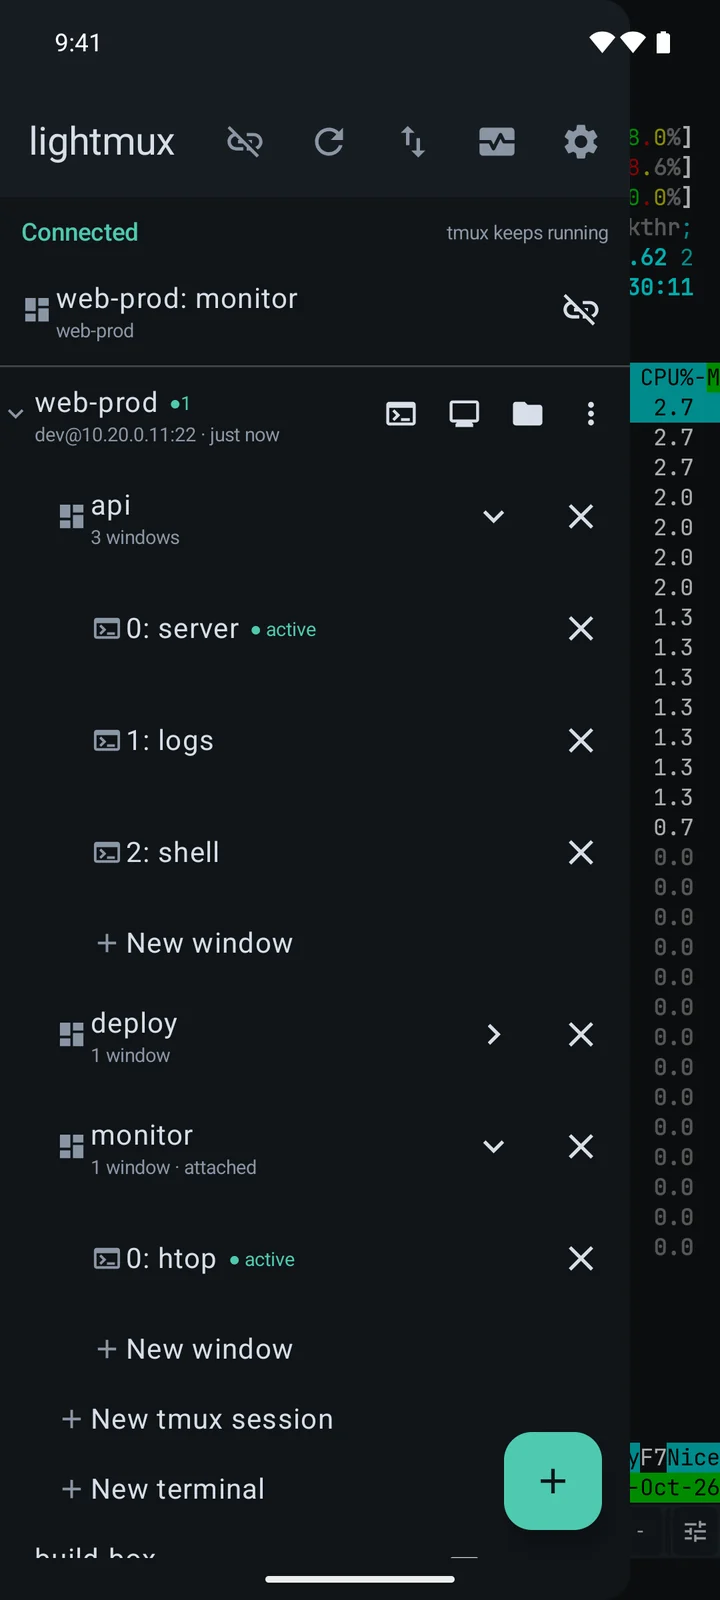
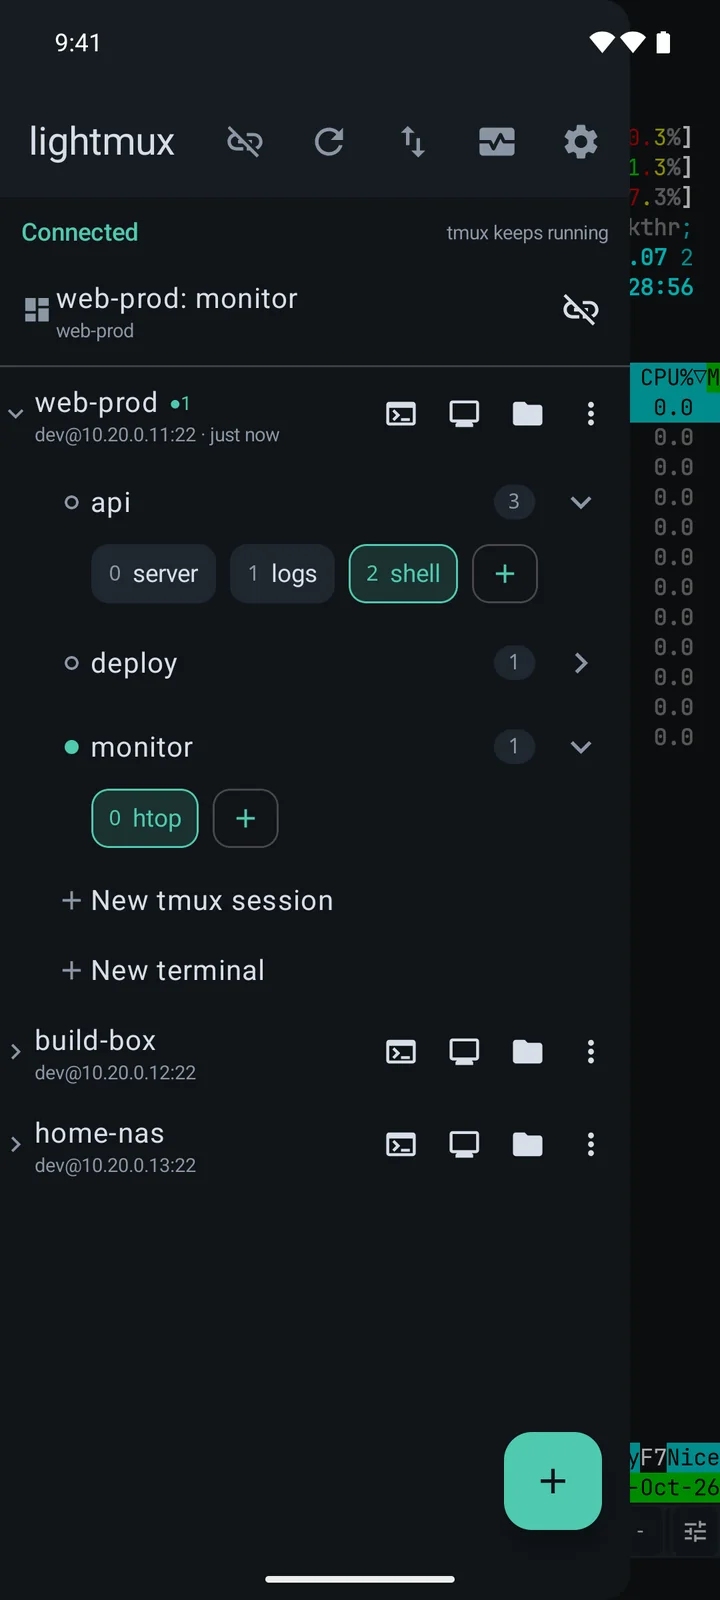
docs: 主页/抽屉截图改为只展开一台主机并重拍新样式，落地页功能截图完整显示

diff --git a/site/index.html b/site/index.html
@@ -188,13 +188,10 @@ nav{position:sticky;top:0;z-index:50;height:66px;background:var(--nav-bg);
 .cell h3{font-size:17px;font-weight:700;color:var(--ink-deep)}
 .cell p{font-size:14px;line-height:1.7;color:var(--text-2)}
 .cell p code{background:var(--bg-alt);padding:1px 6px;border-radius:5px;font-size:12.5px;color:var(--ink-deep)}
-/* 截图只露上半截：手机 UI 的信息都在上面，整张放进格子里字会小到看不清 */
-.shot{margin:10px auto 0;width:min(100%,280px);height:340px;border-radius:30px 30px 0 0;padding:8px 8px 0;
-  background:linear-gradient(160deg,#2b3135,#0d1013 40%,#1c2226);overflow:hidden}
-.shot img{width:100%;border-radius:23px 23px 0 0}
-/* 快捷栏在屏幕最底下：改成贴底对齐，溢出的上半截被裁掉 */
-.shot.end{display:flex;flex-direction:column;justify-content:flex-end}
-.shot.end img{flex:none;border-radius:0}
+/* 整张截图都露出来：只露半截会把会话树、快捷栏这些要展示的东西裁掉；margin-top:auto 让同一行的手机底边对齐 */
+.shot{margin:auto auto var(--pad-card);width:min(100%,230px);border-radius:30px;padding:7px;
+  background:linear-gradient(160deg,#2b3135,#0d1013 40%,#1c2226)}
+.shot img{display:block;width:100%;aspect-ratio:720/1600;border-radius:24px}
 @media(max-width:960px){.bento{grid-template-columns:repeat(2,1fr)}}
 @media(max-width:620px){.bento{grid-template-columns:1fr}}
 
@@ -359,7 +356,7 @@ monitor: 1 windows
       <div class="cell">
         <h3 data-i18n="feat.term.t">顺手的快捷栏</h3>
         <p data-i18n="feat.term.d"><code>Ctrl</code> <code>Esc</code> <code>Tab</code> 方向键都在，可增删排序；<code>Ctrl+B d</code> 这样的组合也能做成一个按钮。</p>
-        <div class="shot end"><img data-shot="term" src="images/zh/term.webp" alt="" loading="lazy"></div>
+        <div class="shot"><img data-shot="term" src="images/zh/term.webp" alt="" loading="lazy"></div>
       </div>
       <div class="cell">
         <h3 data-i18n="feat.monitor.t">主机监控</h3>
